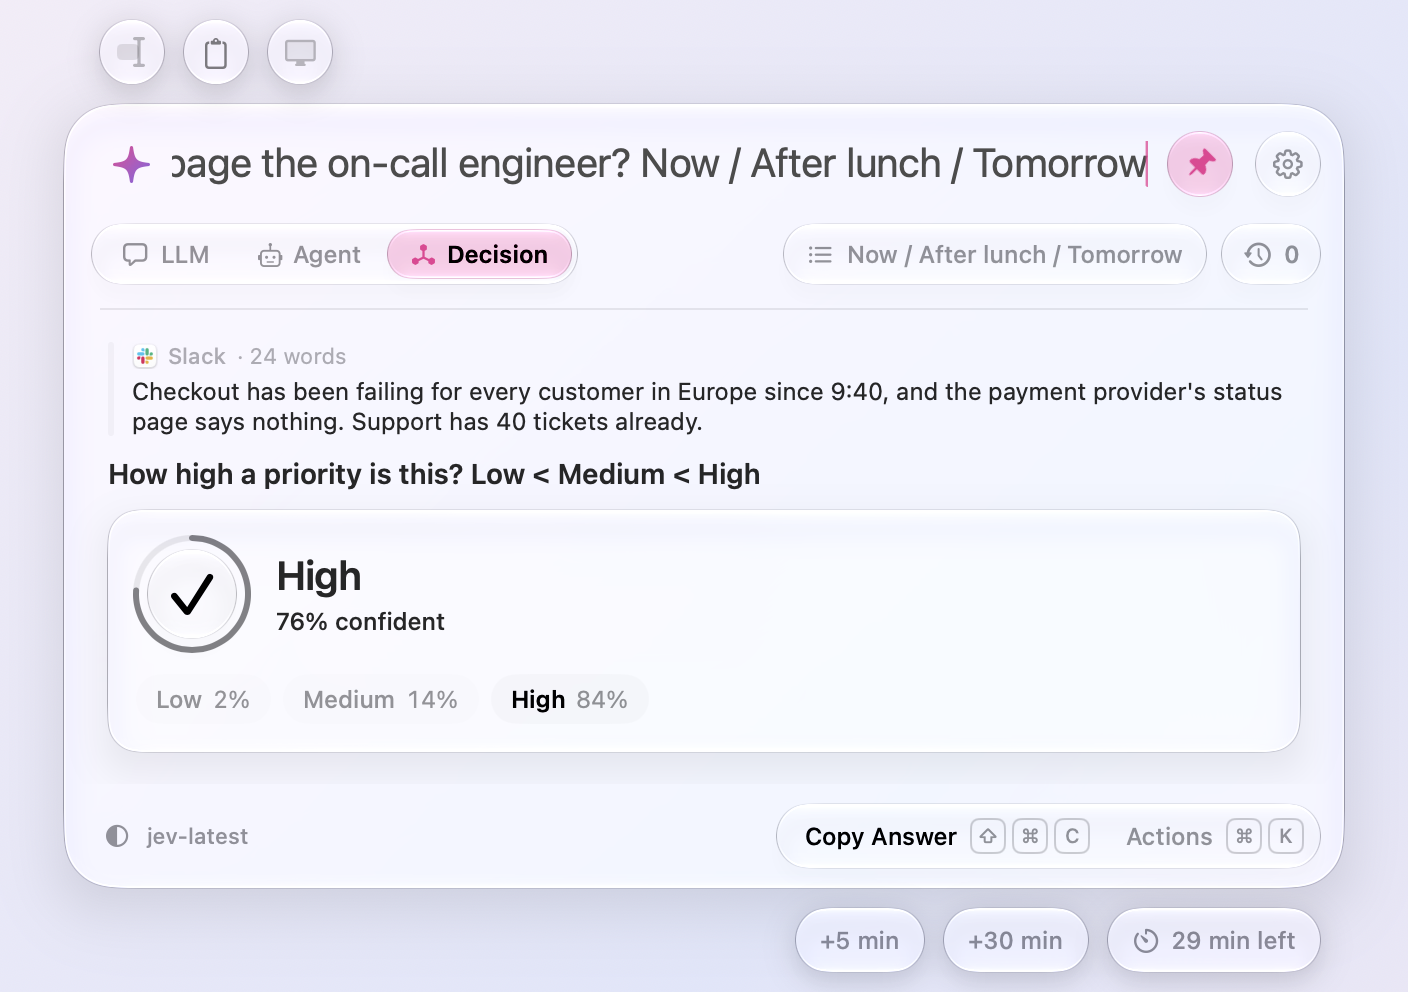
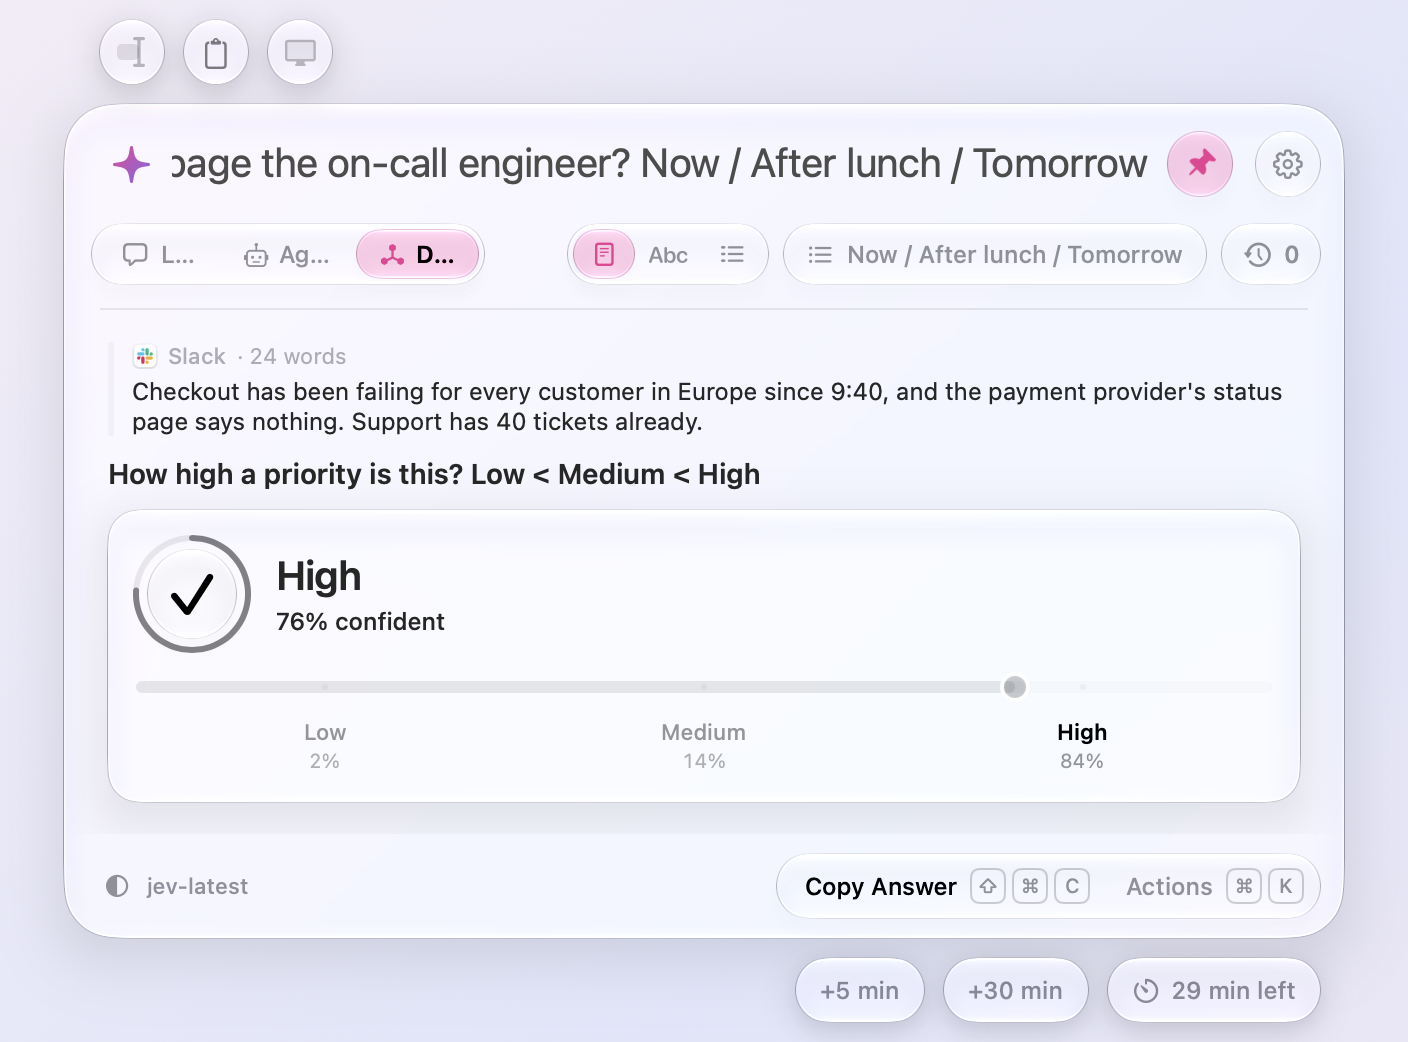
Show a decision between levels on a scale
A score question names its answers in order (Low < Medium < High), so
rendering them as even capsules, like a choice between a set, lost the
order and where along it Jev placed the text. Ordered decisions now draw
a scale with a marker at the score, between two levels when Jev isn't
sure, and each level's share beneath it.

diff --git a/Meraline/Panel/DecisionCard.swift b/Meraline/Panel/DecisionCard.swift
@@ -4,8 +4,10 @@ import SwiftUI
 /// What Jev decided, in the answer's place (see `Decision`): a glass disc with a check on green glass for Yes, a
 /// cross on red for No, a question mark on neutral glass for Not Sure, or a check on neutral glass for one of your
 /// own answers, which get no color; a ring around the disc is how sure Jev is, and beside it the answer and
-/// “82% confident”. Under them, every answer with its probability, the chosen one in the primary color. The check,
-/// the cross, and the words carry the meaning, so the colors are only a help, as in Show What Changed.
+/// “82% confident”. Under them, every answer with its probability, the chosen one in the primary color — or, for
+/// answers in order (Jev's `score`), a scale that lays the levels out first to last with a marker where Jev placed
+/// the text, between two levels when it isn't sure. The check, the cross, the marker, and the words carry the
+/// meaning, so the colors are only a help, as in Show What Changed.
 struct DecisionCard: View {
     let decision: Decision
     /// Under this confidence the card says Not Sure (see `Preferences.unsureBelow`).
@@ -34,7 +36,11 @@ struct DecisionCard: View {
                 .textSelection(.enabled)
                 Spacer(minLength: 0)
             }
-            ProbabilityRow(decision: decision)
+            if decision.isOrdered {
+                ScaleRow(decision: decision, progress: ringDrawn)
+            } else {
+                ProbabilityRow(decision: decision)
+            }
         }
         .padding(14)
         .frame(maxWidth: .infinity, alignment: .leading)
@@ -130,6 +136,85 @@ private struct ProbabilityRow: View {
         }
         .accessibilityElement(children: .contain)
         .accessibilityLabel(decision.isOrdered ? "Levels" : "Answers")
+    }
+}
+
+/// The levels of a `score` decision laid out first to last along a track, with a filled meter and a marker where
+/// Jev placed the text (its `score`, which sits between two levels when Jev isn't sure), and each level's
+/// probability beneath it, the chosen one emphasized. Unlike the choice row's even capsules, it shows the order
+/// and how far along it the text landed. Neutral graphite, like the rest of the card.
+private struct ScaleRow: View {
+    let decision: Decision
+    /// How far the meter is drawn, from none as the card appears to all of it, in step with the disc's ring.
+    let progress: Double
+
+    /// The marker's diameter and the track's height.
+    private static let marker: CGFloat = 13
+    private static let track: CGFloat = 6
+
+    private var count: Int { decision.options.count }
+
+    /// Where the text sits in level space: 0 at the first level, `count - 1` at the last, from Jev's score or, when
+    /// it gives none, the chosen level's place.
+    private var position: Double {
+        let chosen = decision.options.firstIndex { $0.label == decision.chosen.label } ?? 0
+        return min(max(decision.score ?? Double(chosen), 0), Double(max(count - 1, 0)))
+    }
+
+    var body: some View {
+        VStack(spacing: 9) {
+            GeometryReader { geo in
+                let width = geo.size.width
+                let cell = width / CGFloat(max(count, 1))
+                // Levels sit at the centre of their cell, so the ends never spill past the track; the marker
+                // follows the same mapping, drawing in from the left in step with the disc's ring.
+                let markerX = cell * (CGFloat(position) + 0.5)
+                let drawn = markerX * progress
+                ZStack(alignment: .leading) {
+                    Capsule()
+                        .fill(.primary.opacity(0.08))
+                        .frame(height: Self.track)
+                    Capsule()
+                        .fill(.primary.opacity(0.35))
+                        .frame(width: drawn, height: Self.track)
+                    ForEach(Array(decision.options.enumerated()), id: \.offset) { index, _ in
+                        Circle()
+                            .fill(.primary.opacity(0.18))
+                            .frame(width: 3, height: 3)
+                            .offset(x: cell * (CGFloat(index) + 0.5) - 1.5)
+                    }
+                    Circle()
+                        .fill(.primary)
+                        .overlay(Circle().stroke(.background, lineWidth: 2))
+                        .frame(width: Self.marker, height: Self.marker)
+                        .shadow(color: .black.opacity(0.15), radius: 1, y: 0.5)
+                        .offset(x: drawn - Self.marker / 2)
+                }
+                .frame(width: width, height: geo.size.height)
+            }
+            .frame(height: Self.marker)
+
+            HStack(spacing: 0) {
+                ForEach(decision.options) { option in
+                    let isChosen = option.label == decision.chosen.label
+                    VStack(spacing: 1) {
+                        Text(option.label)
+                            .font(.system(size: 11, weight: isChosen ? .semibold : .medium))
+                            .foregroundStyle(isChosen ? AnyShapeStyle(.primary) : AnyShapeStyle(.secondary))
+                        Text(Decision.percent(option.probability))
+                            .font(.system(size: 10))
+                            .monospacedDigit()
+                            .foregroundStyle(isChosen ? AnyShapeStyle(.secondary) : AnyShapeStyle(.tertiary))
+                    }
+                    .lineLimit(1)
+                    .minimumScaleFactor(0.7)
+                    .frame(maxWidth: .infinity)
+                }
+            }
+        }
+        .accessibilityElement(children: .ignore)
+        .accessibilityLabel("Scale from \(decision.options.first?.label ?? "") to \(decision.options.last?.label ?? "")")
+        .accessibilityValue(decision.options.map { "\($0.label) \(Decision.percent($0.probability))" }.joined(separator: ", "))
     }
 }
 

diff --git a/CHANGELOG.md b/CHANGELOG.md
@@ -6,6 +6,7 @@ When a version has an entry here, the Release workflow uses it as the release no
 
 ## Unreleased
 
+- **A scale for a decision between levels.** When a Decision question names its answers in order (“How high a priority is this? Low < Medium < High”), Jev's answer now shows on a scale: the levels laid out first to last with a marker where Jev placed the text, which sits between two levels when it isn't sure, and each level's share beneath it. A question that picks one of a set still shows its answers as before.
 - **Longer selections and clipboards come along whole.** The text you add from a selection, the clipboard, or the window in Decision mode used to stop at 20,000 characters; a whole document copied or selected now arrives in full, up to a million characters, so a long report or transcript comes along without being cut.
 
 ## v1.8.0 - 2026-09-29
